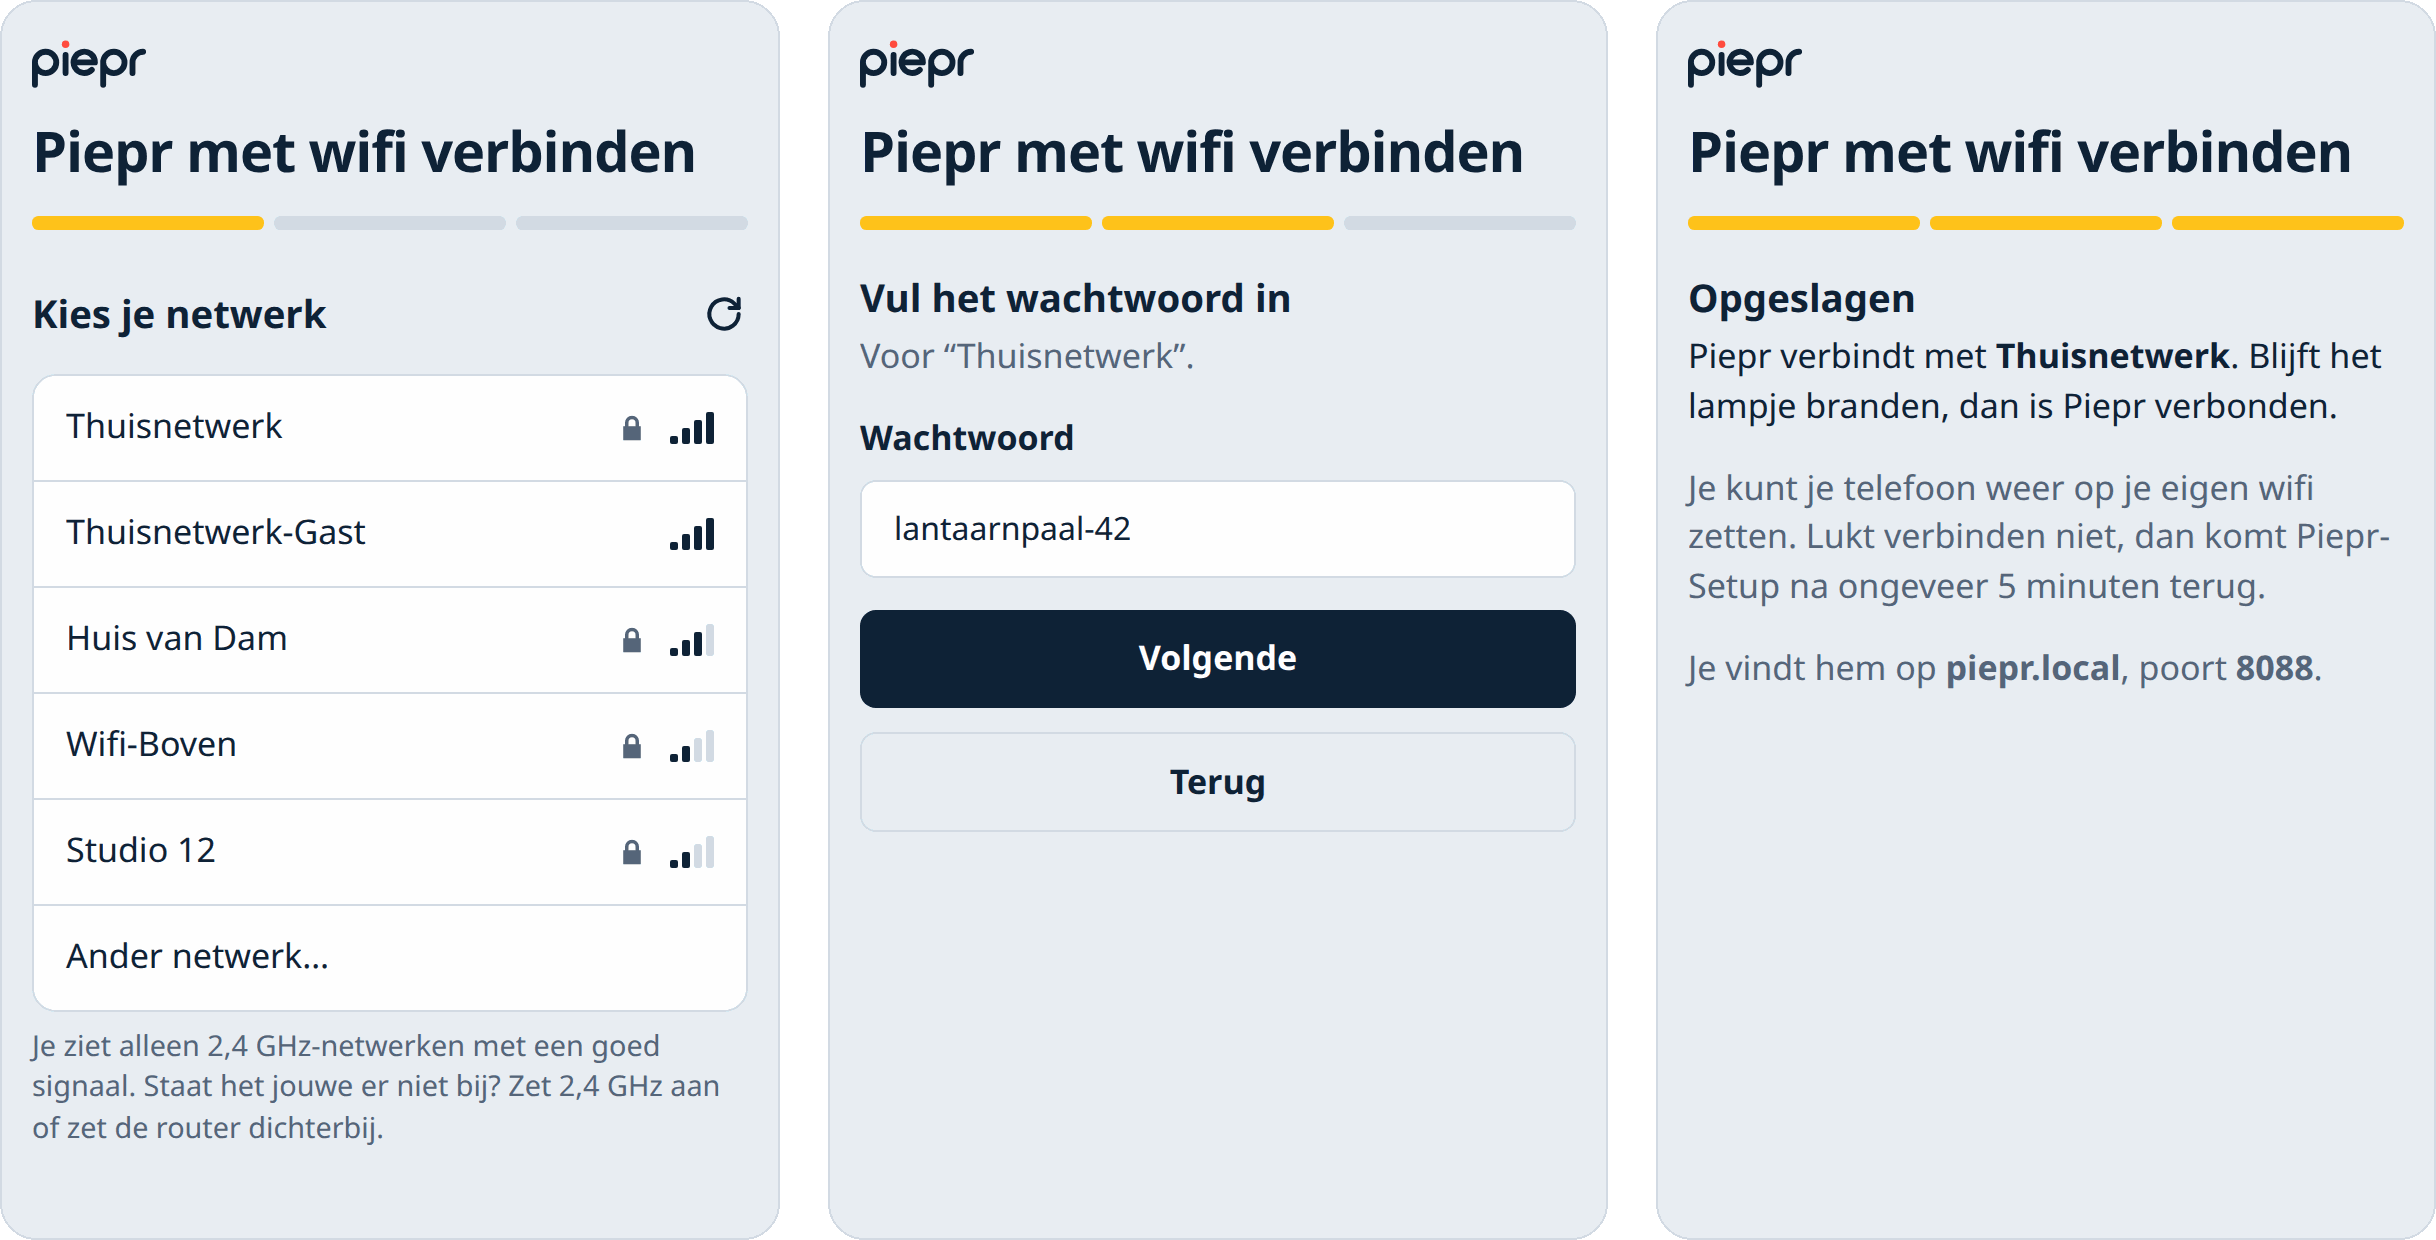
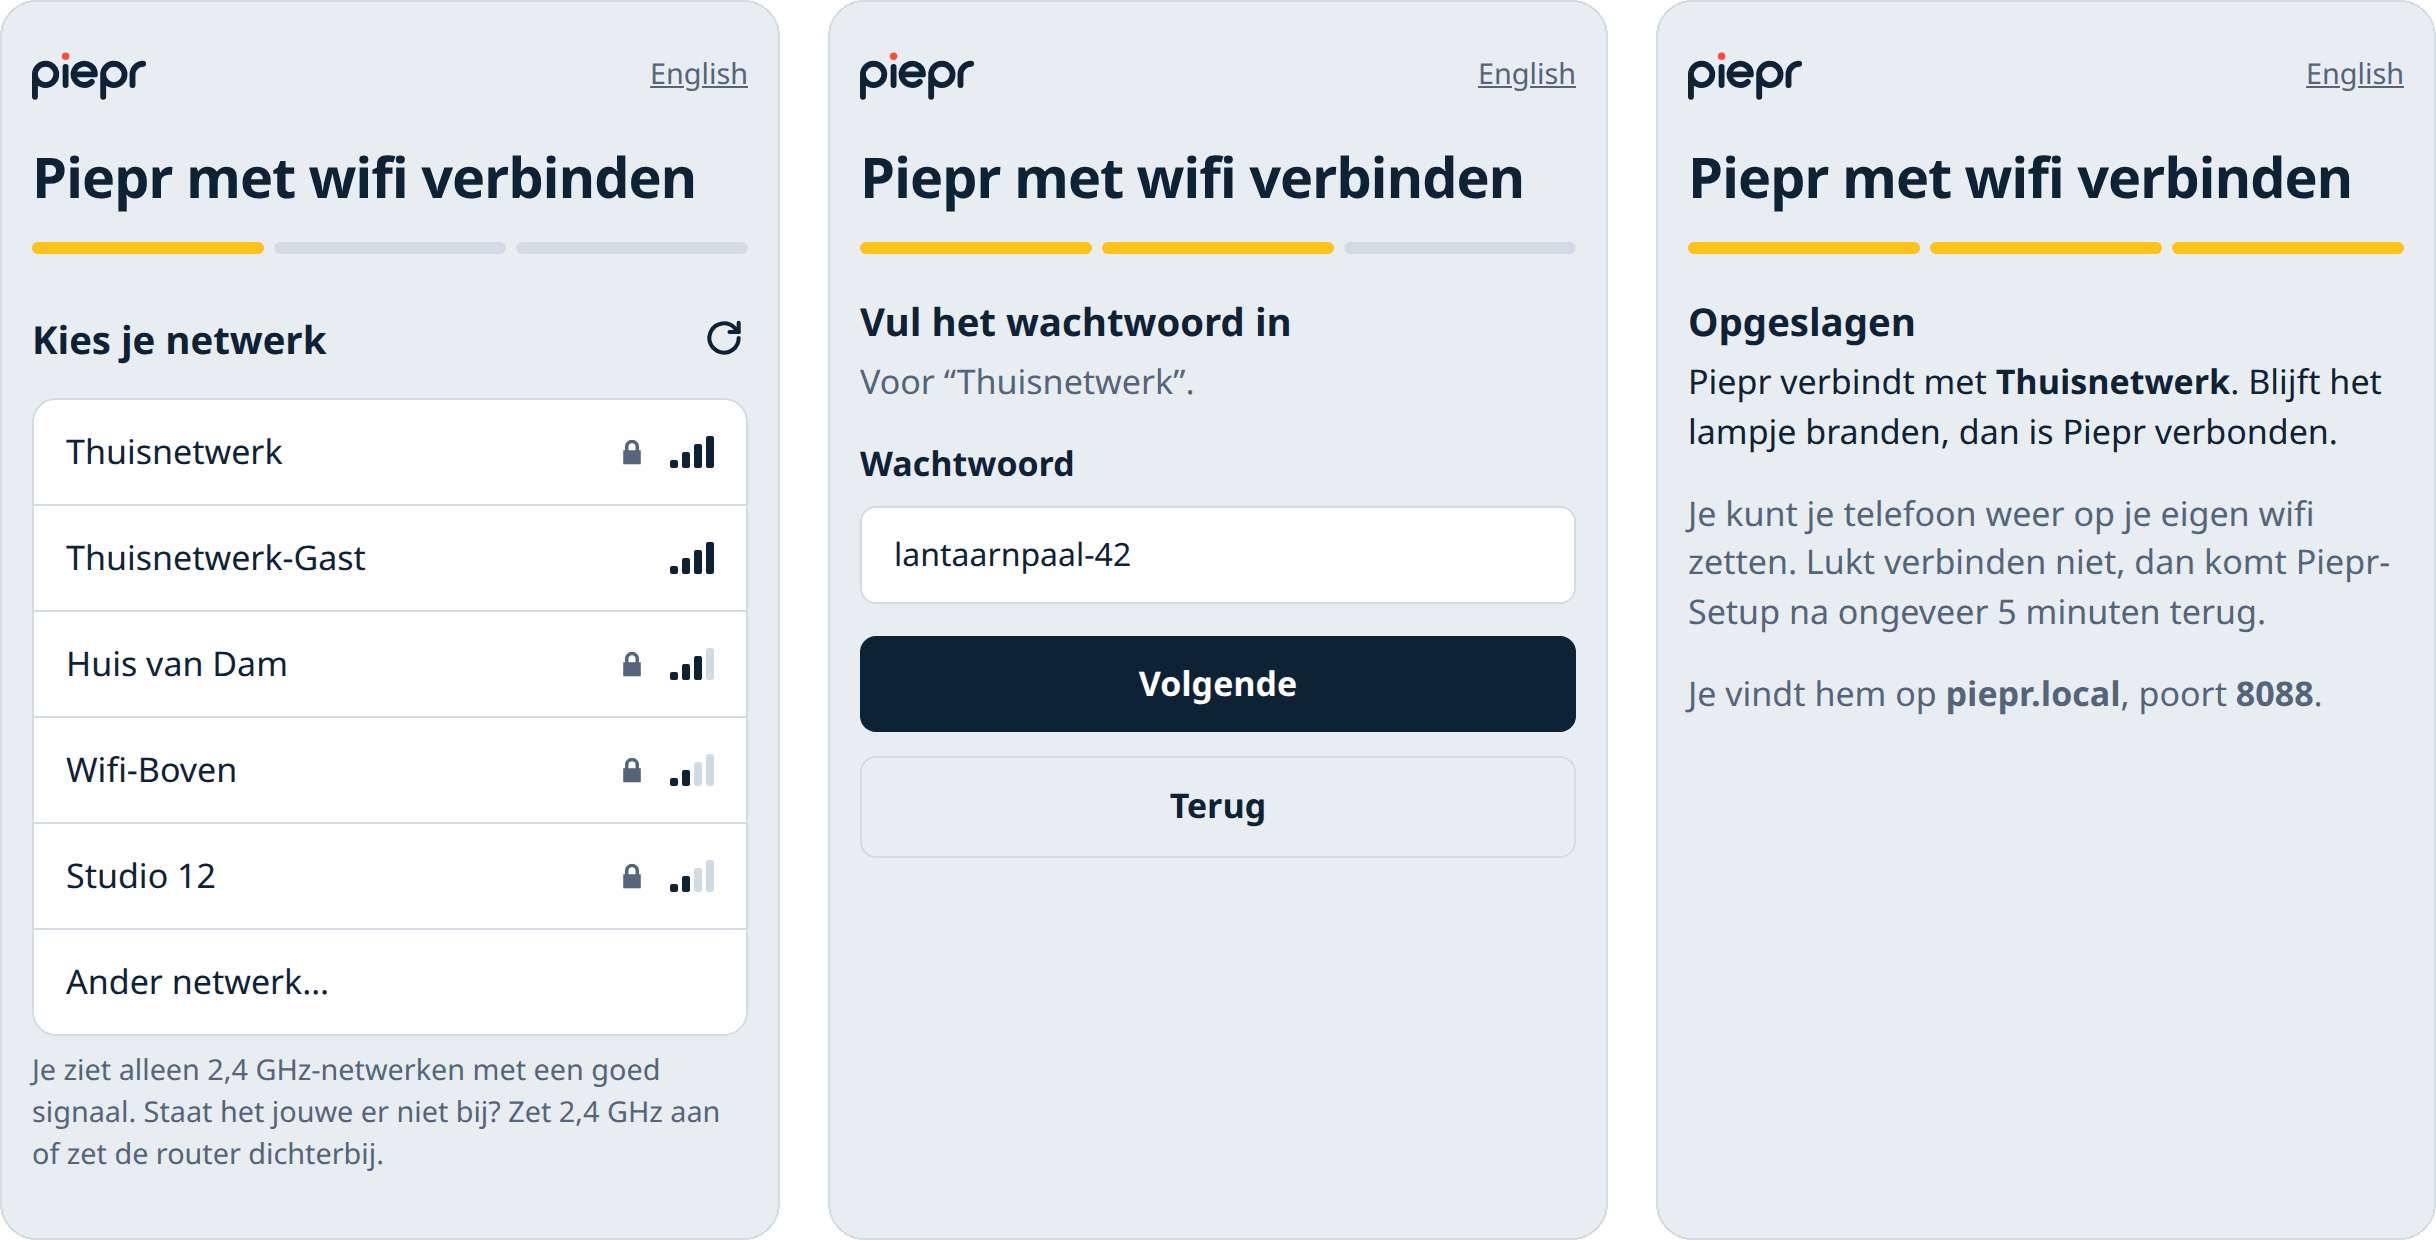
1.2.0

diff --git a/CHANGELOG.md b/CHANGELOG.md
@@ -1,11 +1,13 @@
 # Changelog
 
-## Unreleased
+## 1.2.0 - 2026-11-27
 
 - A link at the top of the setup page switches between Dutch and English
-- A shorter, clearer log: only Piepr's own lines, the reason for a start-up or a lost
-  WiFi connection in words, a line when telegrams start arriving and when a phone joins
-  the setup hotspot. The WiFi lines are now tagged `net:`
+- A shorter, clearer log: only Piepr's own lines, with the reason for a start-up or a
+  lost WiFi connection in words, a line when telegrams start arriving and when a
+  device joins the setup hotspot. The WiFi lines are now tagged `net:`
+- Installing 1.2.0 goes over USB, from [piepr.nl/installeren](https://piepr.nl/installeren/)
+  or by hand, and clears the saved WiFi network: set it up again from your phone
 
 ## 1.1.0 - 2026-11-27
 

diff --git a/firmware/README.md b/firmware/README.md
@@ -52,7 +52,8 @@ you save one. To change the network later: **hold BOOT until the LED double-blin
 3. Enter the password (shown while typing; skipped for open networks).
 4. Save. The device restarts and joins.
 
-The page is in Dutch on a phone set to Dutch and in English otherwise. It works
+The page is in Dutch on a phone set to Dutch and in English otherwise; a link at the
+top switches between the two. It works
 offline (gzipped in flash, about 5 KB per language). Name 1–32 bytes, password
 empty or 8–63 bytes; checked on the page and again on the device. Without
 JavaScript, or on old browsers, it falls back to a plain form.
